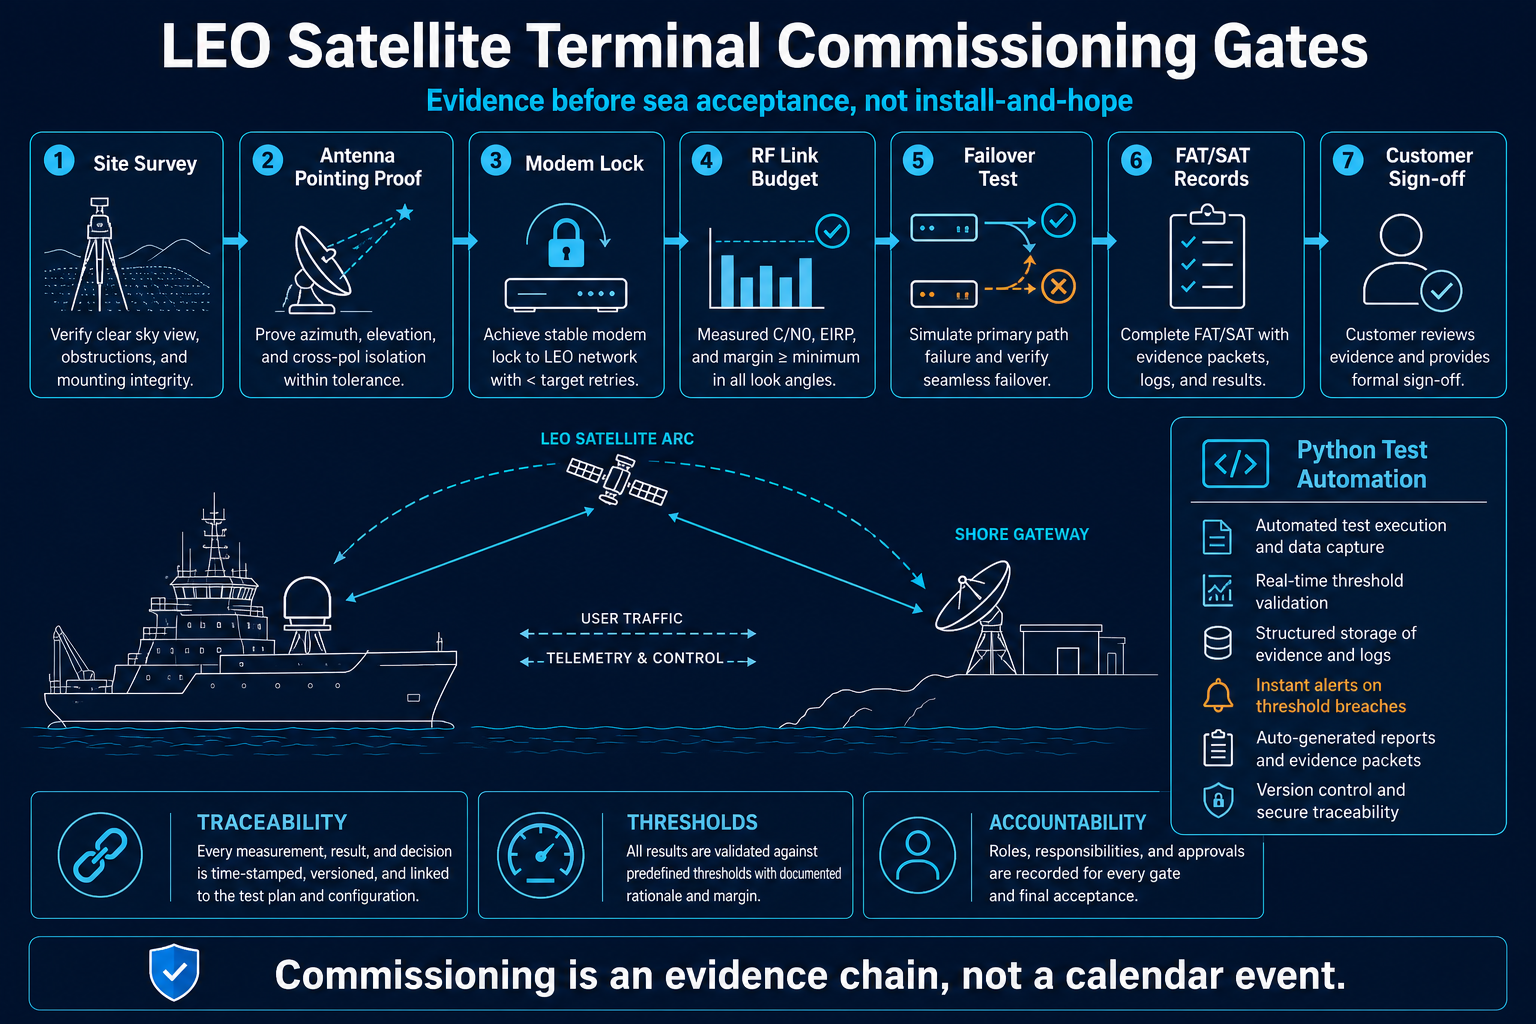
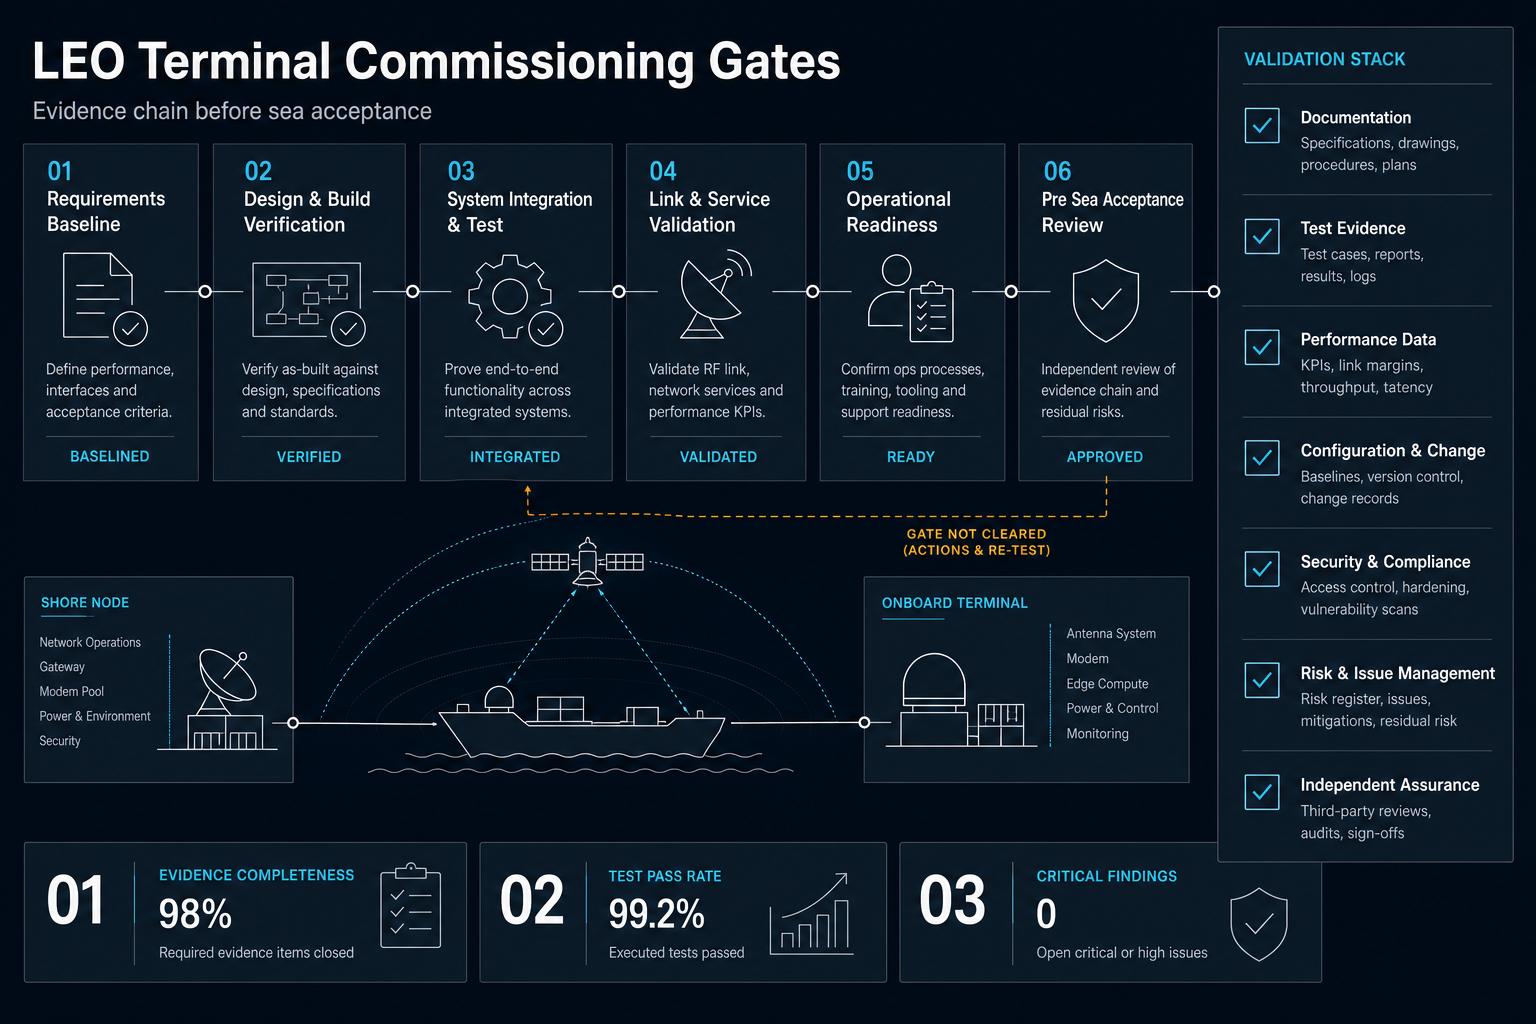
Regenerate v2 executive infographic; add anti-childish design rule
Professional graphic redesign for LEO commissioning test run.
Add test-linkedin-mirror-and-post.ps1 and mandatory anti-childish
image QA rule in prompt and automation.toml.

diff --git a/.cursor/automations/daily-linkedin-marine-plm-post/prompt.md b/.cursor/automations/daily-linkedin-marine-plm-post/prompt.md
@@ -14,6 +14,8 @@ Professional quality rule: always write as a senior engineering consultant and s
 
 Design excellence rule: final image quality must be significantly more professional than a typical AI infographic baseline. Use a disciplined grid, premium typography pairing, clear information hierarchy, deliberate whitespace, consistent icon style, and executive-grade visual composition. Avoid template-like or repetitive block layouts; ensure each section has a clear visual purpose and polished alignment. The final artwork should look like it was prepared by a senior information designer for a consulting deliverable, not a generic generated poster.
 
+Anti-childish design rule (mandatory): never produce cartoon, clip-art, playful, bubbly, juvenile, or mascot-style visuals. No rounded comic icons, no bright toy-like colors, no 3D emoji-style graphics. LinkedIn images must look like mature executive consulting or systems-engineering graphics — geometric precision, restrained palette (deep navy/slate/cyan/amber only), thin-line vector icons, and typography suitable for customer or C-suite review. If the result looks informal or childish, regenerate until it passes a professional graphic-design QA gate.
+
 Image generation rule: always prefer the built-in image generation tool to produce the final infographic; only fall back to deterministic local rendering (e.g. Pillow/PowerShell overlay) if the image generation tool is unavailable in the current run. Whichever path is used, apply the same QA gates and record which path was used in automation memory.
 
 Reference-grade flat vector style rule: default to a clean corporate-technical infographic style like a professional engineering solution poster — uniform deep-navy background, flat monochrome-blue vector icons with consistent thin line-weight, cyan section labels, white body text, and restrained amber only for a fallback/alert path. Prefer a top numbered process pipeline (5-7 icon cards), a central stylized system/architecture scene with clearly labeled links, an optional left legend and a right automation sidebar, three bottom summary cards, and a footer takeaway strip. Use crisp flat line-art (not photorealistic clutter), strong grid alignment, generous spacing, and clear typographic hierarchy. This is the preferred look; deviate only when the topic clearly needs a different diagram.

diff --git a/.cursor/automations/daily-linkedin-marine-plm-post/memory.md b/.cursor/automations/daily-linkedin-marine-plm-post/memory.md
@@ -113,5 +113,5 @@ Mirror + LinkedIn auto-post:
 - Angle: evidence-gated acceptance — pointing proof, modem lock, RF margin, failover, FAT/SAT records.
 - Repo path: `.cursor/automations/daily-linkedin-marine-plm-post/runs/2026-07-06/leo-satellite-terminal-commissioning-gates/`
 - Windows mirror path: `C:\Users\namma\Documents\Codex\2026-07-06\leo-satellite-terminal-commissioning-gates\`
-- Image QA: text-fit pass | leader-lines pass | overlap pass | flat-vector reference style pass.
-- LinkedIn status: ready for final posting (pending Windows mirror + app test).
+- Image QA: text-fit pass | leader-lines pass | overlap pass | v2 executive graphic-design pass (anti-childish).
+- LinkedIn status: ready for final posting (v2 image; pending Windows mirror + app test).
